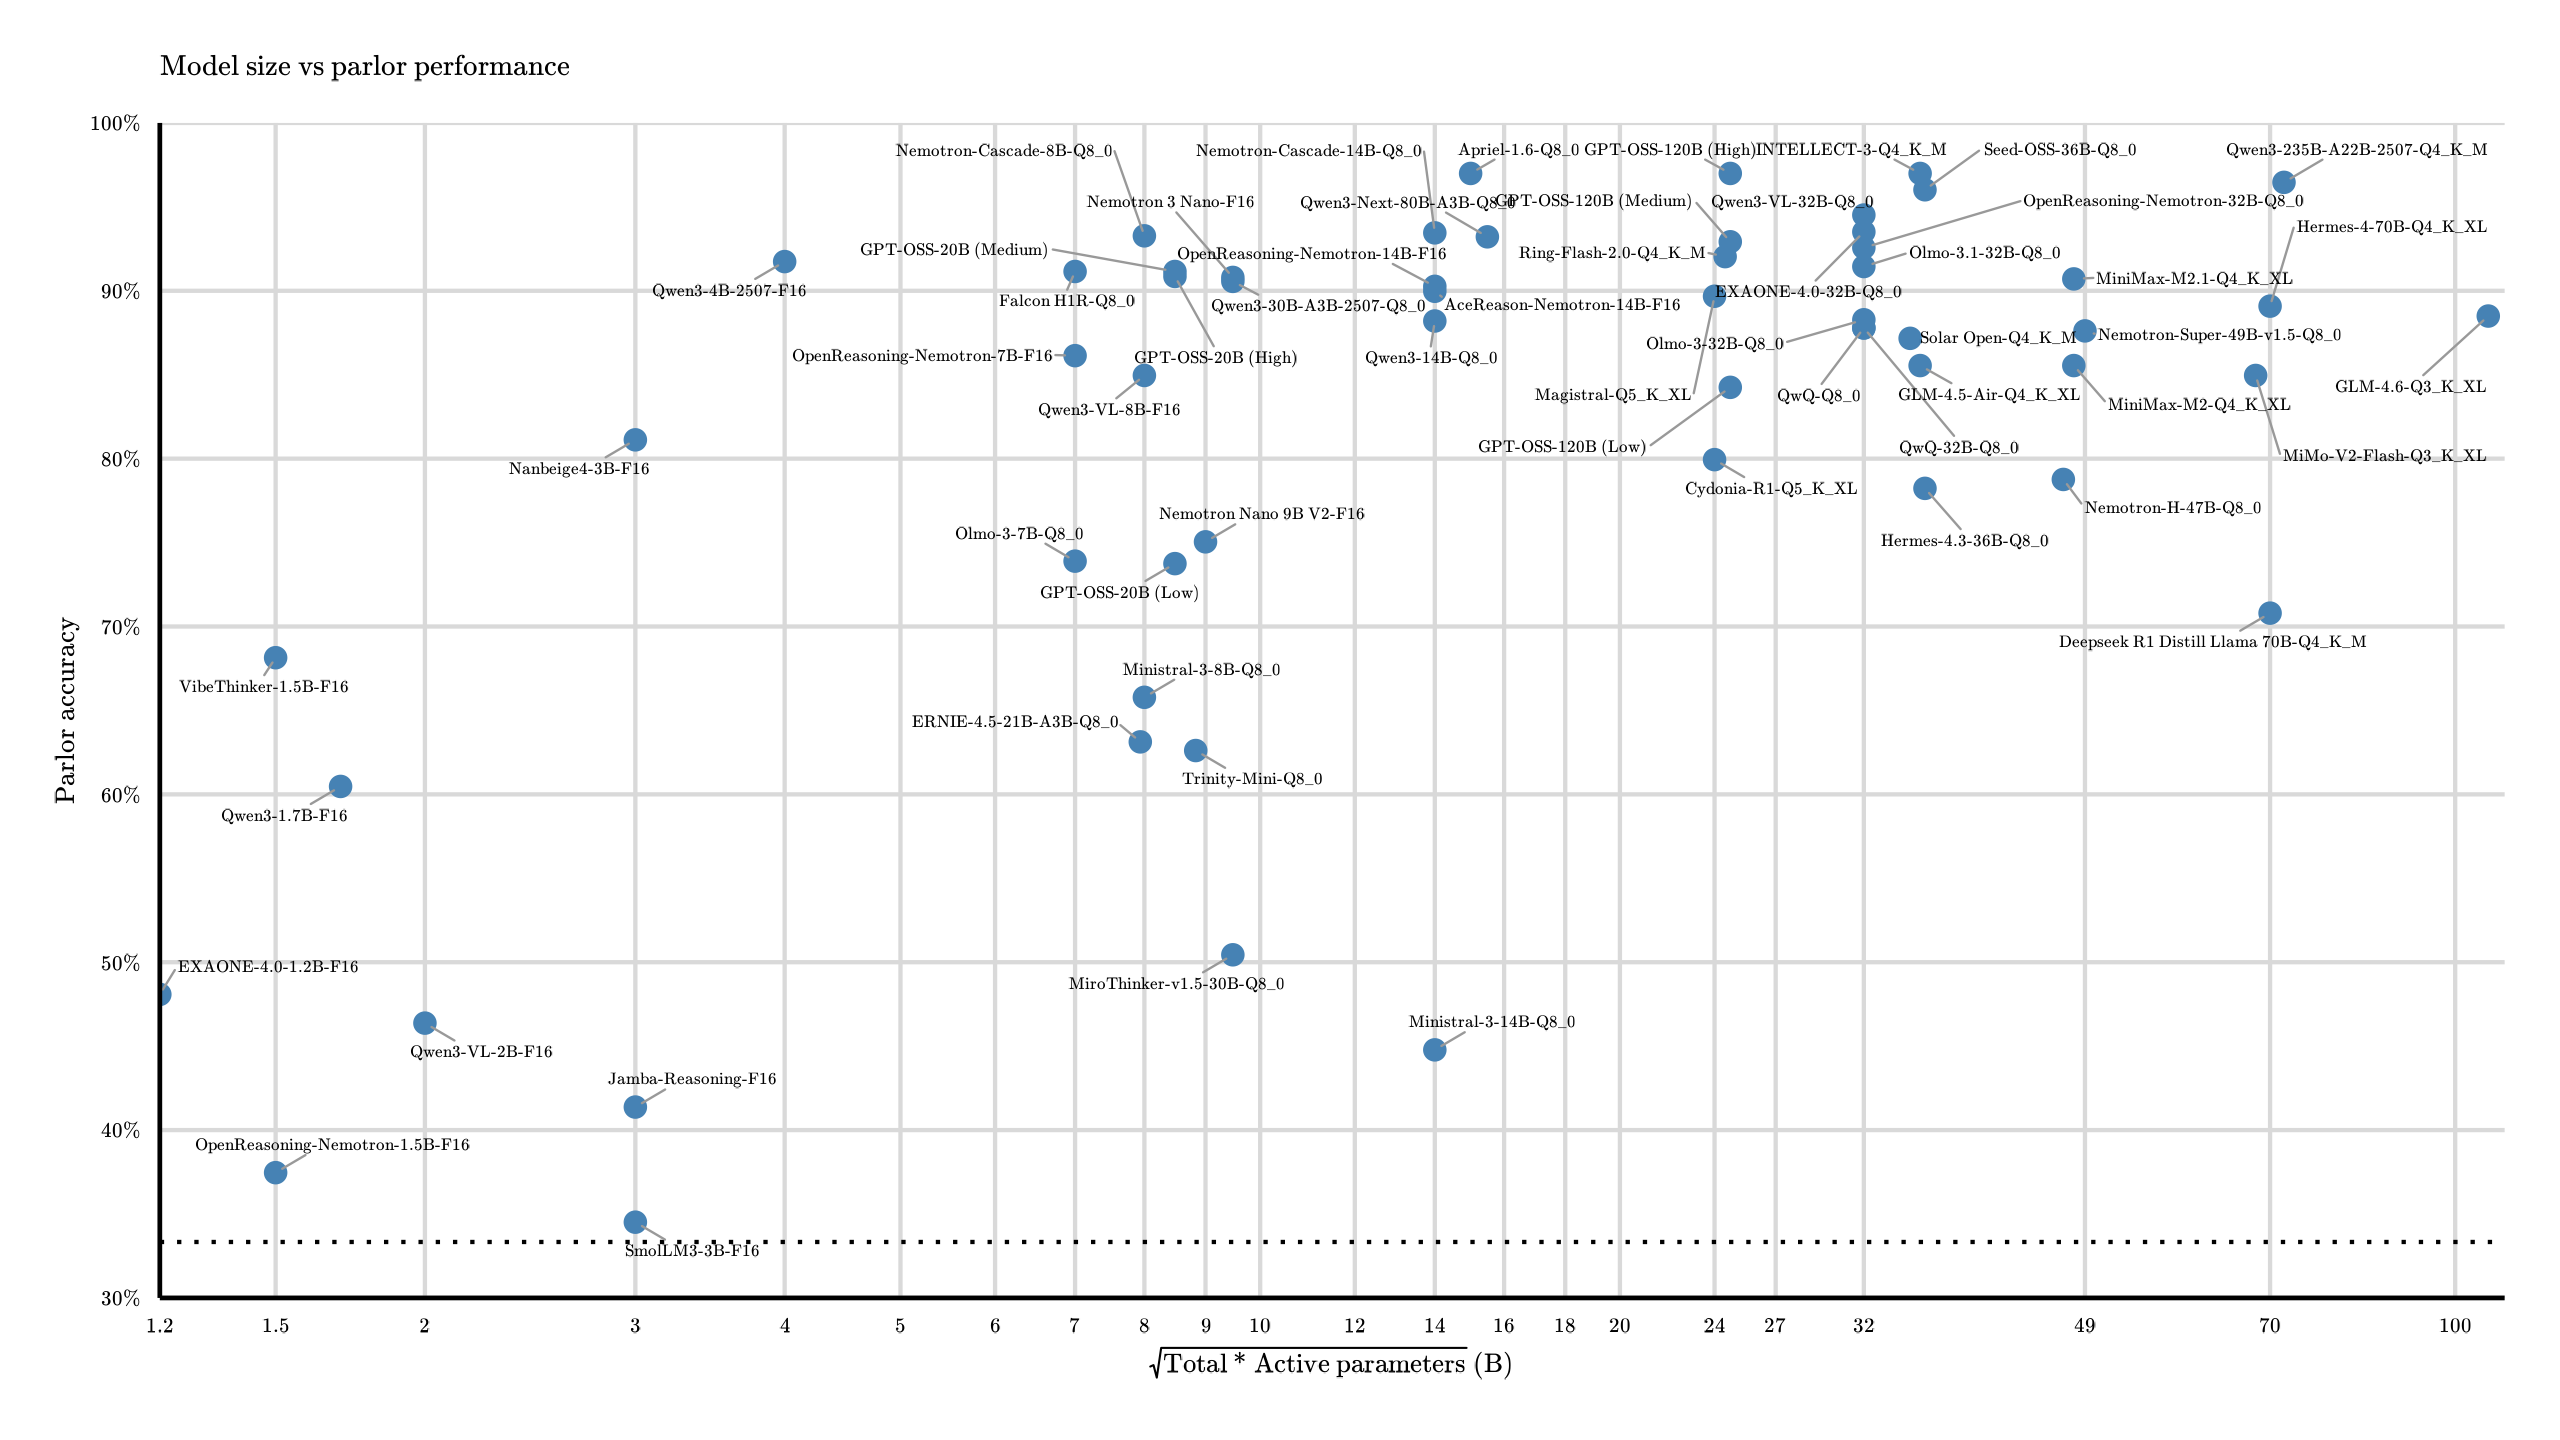
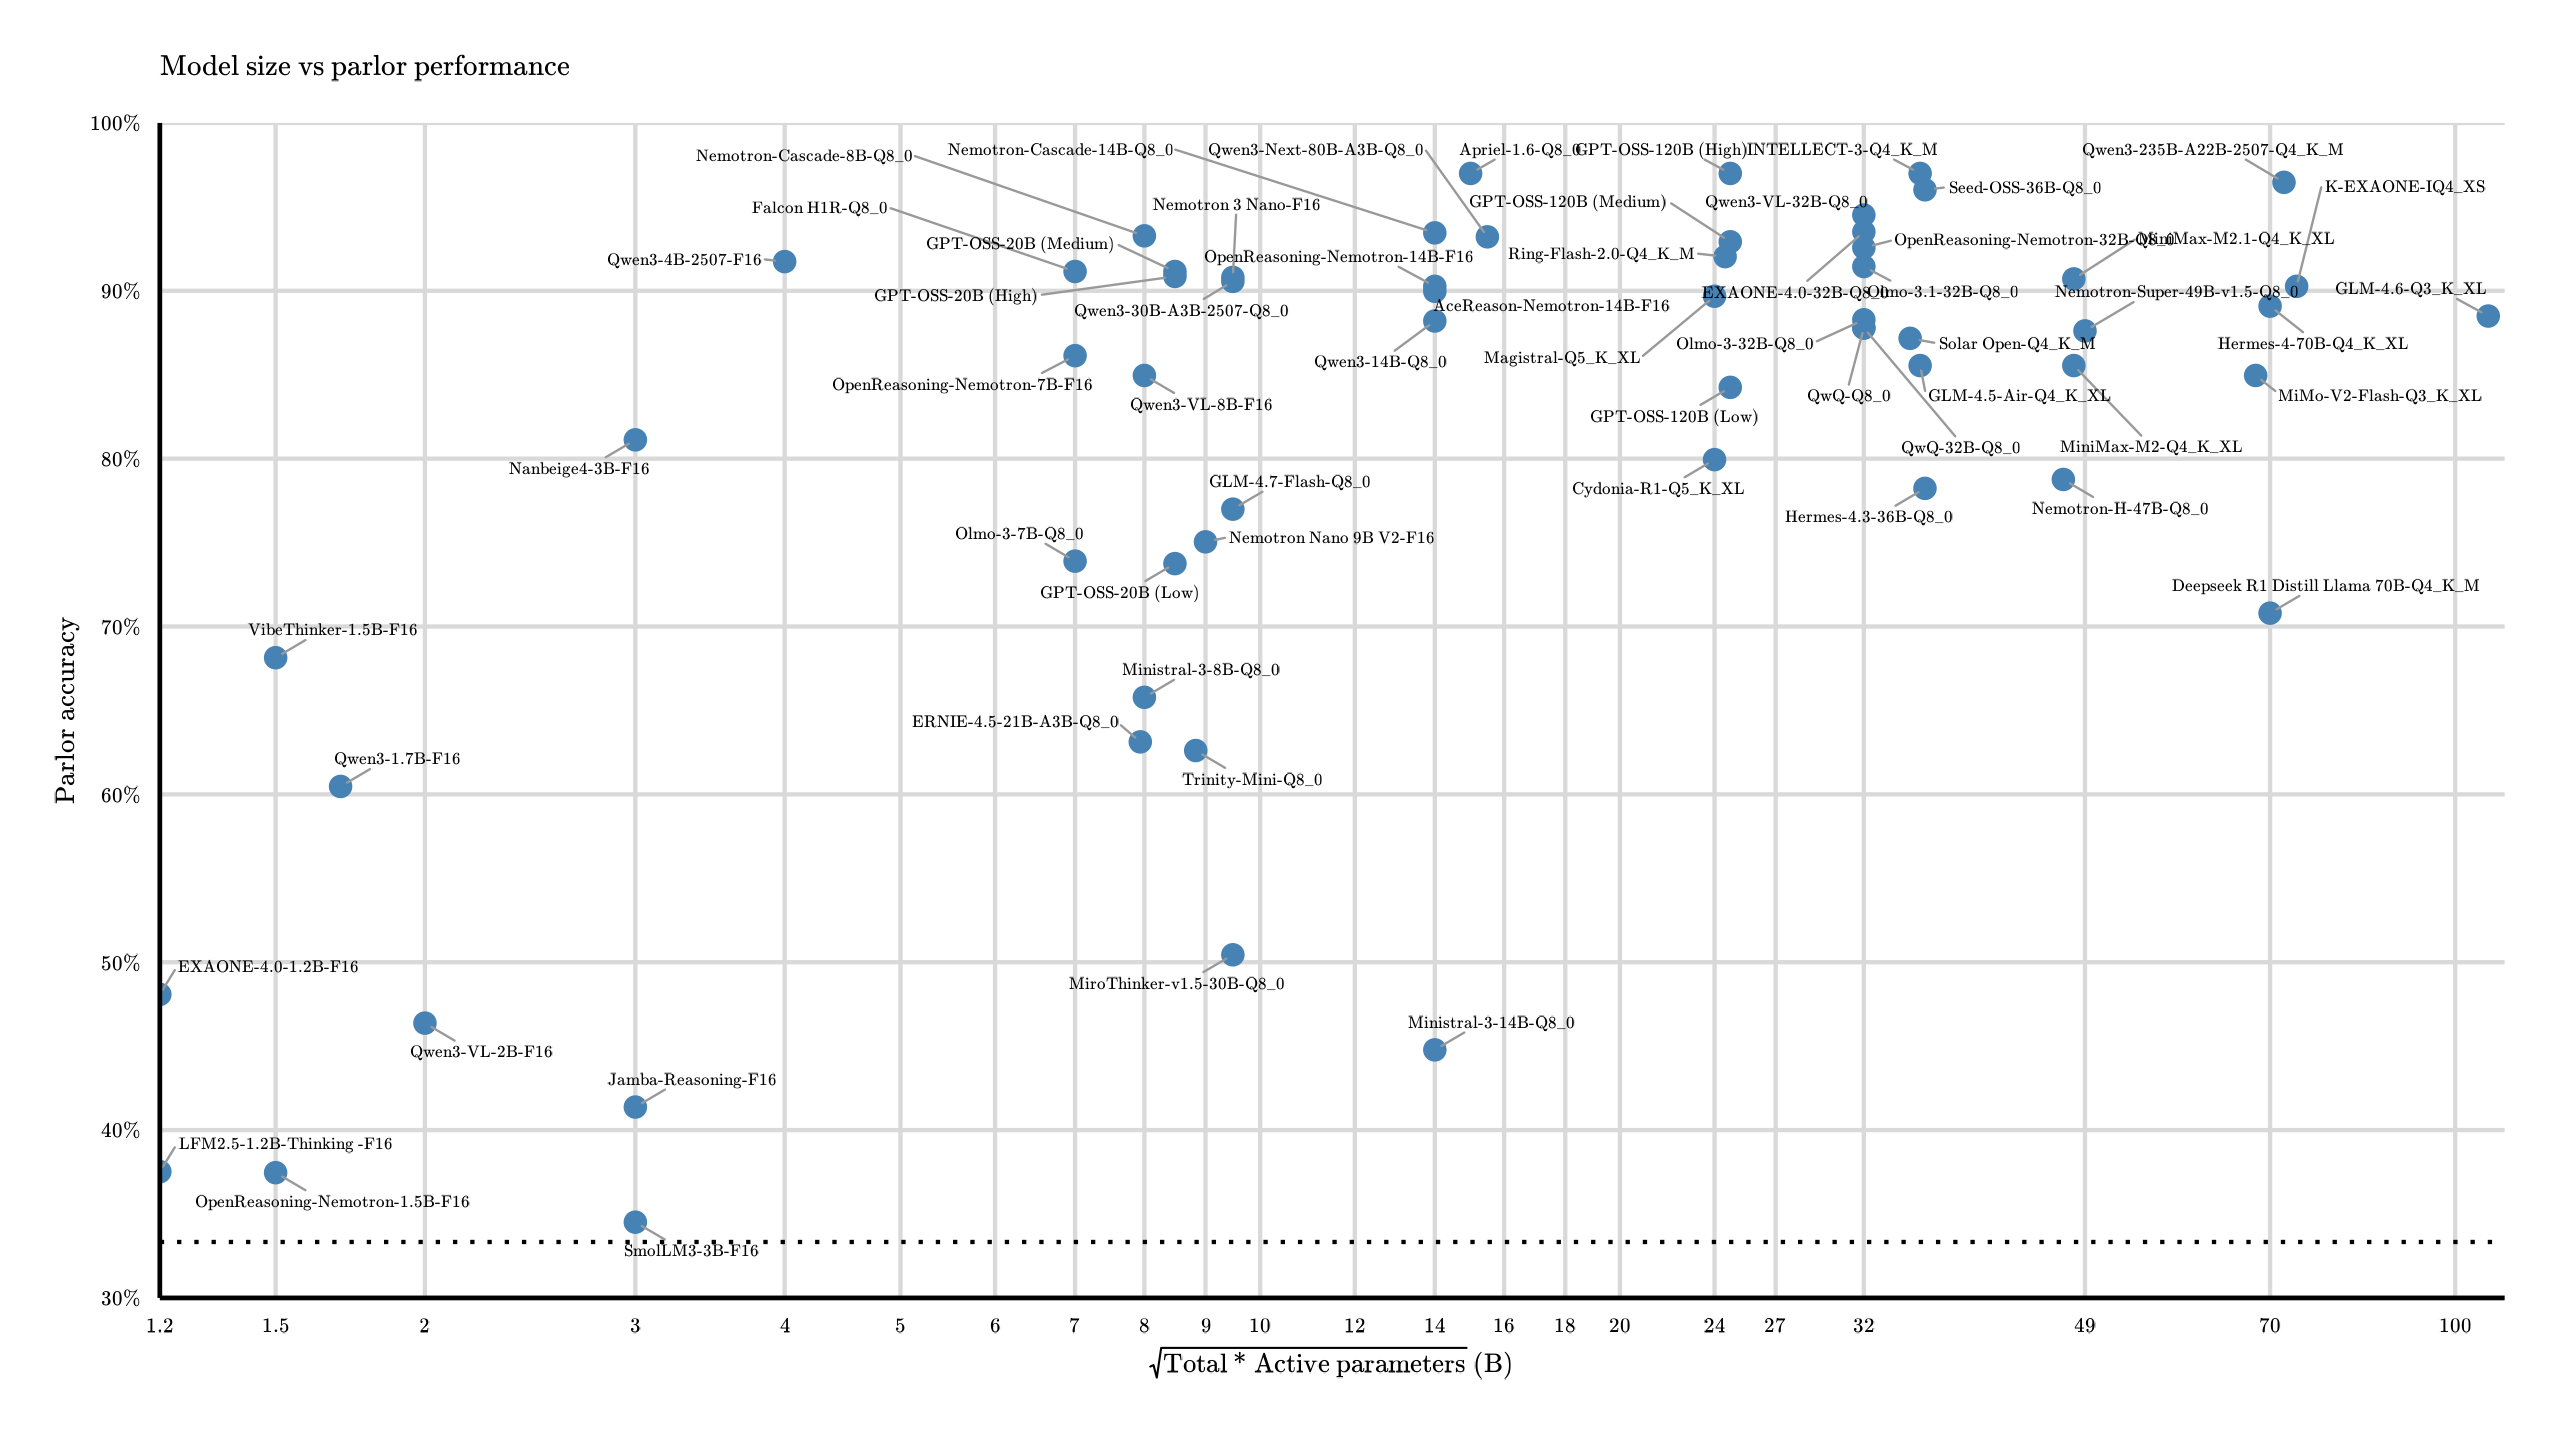
Parlor: K-EXAONE, GLM 4.7 Flash

diff --git a/pages/parlor-reasoning.html b/pages/parlor-reasoning.html
@@ -44,7 +44,7 @@
         <div class="article-container">
             <header class="article-header">
                 <h1>Reasoning LLMs vs the Parlor Puzzle</h1>
-                <div class="meta">By BigStupidJellyfish | 2025-November-02 | Updated 2026-January-09</div>
+                <div class="meta">By BigStupidJellyfish | 2025-November-02 | Updated 2026-January-25</div>
             </header>
 <div class="article-content">
 
@@ -245,6 +245,14 @@
       <td>6120/4500 tokens</td>
     </tr>
 	<tr>
+      <td><a href="https://huggingface.co/LGAI-EXAONE/K-EXAONE-236B-A23B">K-EXAONE-236B-A23B </a></td>
+	  <td>236B</td>
+	  <td>IQ4_XS</td>
+      <td>113*1</td>
+      <td>90.3%</td> <!-- 102/113 -->
+      <td>11994/10442 tokens</td>
+    </tr>
+	<tr>
       <td><a href="https://huggingface.co/tiiuae/Falcon-H1R-7B">Falcon-H1R</a></td>
 	  <td>7B</td>
 	  <td>Q8_0</td>
@@ -293,6 +301,14 @@
       <td>4321/2344 tokens</td>
     </tr>
 	<tr>
+      <td><a href="https://huggingface.co/zai-org/GLM-4.7-Flash">GLM-4.7 Flash</a></td>
+	  <td>30B</td>
+	  <td>Q8_0</td>
+      <td>113*4</td>
+      <td>77.0%</td> <!-- 348/452 -->
+      <td>9013/6172 tokens</td> <!-- Using 2026-01-21 quant, which is (allegedly) fixed -->
+    </tr>
+	<tr>
       <td><a href="https://chatgpt.com/">GPT-5-Thinking-Mini</a></td>
 	  <td>???</td>
 	  <td>???</td>
@@ -331,6 +347,14 @@
       <td>113*5</td>
       <td>97.0%</td> <!-- 548/565 -->
       <td>6357/5245 tokens</td>
+    </tr>
+	<tr>
+      <td><a href="https://huggingface.co/LiquidAI/LFM2.5-1.2B-Thinking">LFM2.5-1.2B-Thinking</a></td>
+	  <td>1.2B</td>
+	  <td>F16</td>
+      <td>113*5</td>
+      <td>37.5%</td> <!-- 212/565 -->
+      <td>3672/3599 tokens</td>
     </tr>
 	<tr>
       <td><a href="https://huggingface.co/mistralai/Magistral-Small-2509">Magistral-Small-2509</a></td>
@@ -525,15 +549,21 @@
 	This shows, approximately, performance relative to model size.
 	I take the geometric mean of active & total parameters as an attempt to better place MoE models (although I have some concerns on how accurate that is).
 	Dense models are placed as you'd expect.
-	<a href="images/parlor-reasoning/named_scatter_total.png">Here's the same chart with respect to just the total parameter count, if you're more concerned with the overall memory footprint</a>.
+	Here's the same chart with respect to just the total parameter count, if you're more concerned with the overall memory footprint:
+</p>
+<center><div class="figure">
+	<img src="images/parlor-reasoning/named_scatter_total.png" width="100%"/>
+</div></center>
+<p>
+	Setting aside model size, we can also take a look at performance with respect to verbosity.
+	Ideally, we'd want a model in the top left: high accuracy, few tokens to get there.
+	GPT-OSS-120B most clearly occupies that spot.
 </p>
 <center><div class="figure">
 	<img src="images/parlor-reasoning/named_scatter_efficiency.png" width="100%"/>
 </div></center>
 <p>
-	Setting aside model size, this contrasts performance with verbosity.
-	Ideally, we'd want a model in the top left: high accuracy, few tokens to get there.
-	GPT-OSS-120B most clearly occupies that spot.
+	Very approximately, it seems that past ~4-5k typical response tokens, more thinking tends to hurt performance.
 </p>
 <!-- <p>
 	We could also try relating the scores on this benchmark to that on some more mainstream benchmarks.
@@ -626,6 +656,10 @@
 	I'm somewhat curious what really changed between 4.0 and 4.0.1 (their statement is that it's "a patch version to reduce unintended or inappropriate responses," whatever that means).
 	While the score turned out slightly lower with 4.0.1, it's only two additional errors.
 	I can't claim any detectable difference/dumbing down yet.
+</p>
+<p>
+	The newer 236B K-EXAONE model was quite disappointing (testsed at IQ4_XS).
+	It scored lower than the older 32B versions, had notable timeout issues, and scored similarly to 24-32B models on my non-reasoning knowledge test (those results not shown here).
 </p>
 <h3>**Gemini-2.5-Pro & Gemini 3</h3>
 <p>
